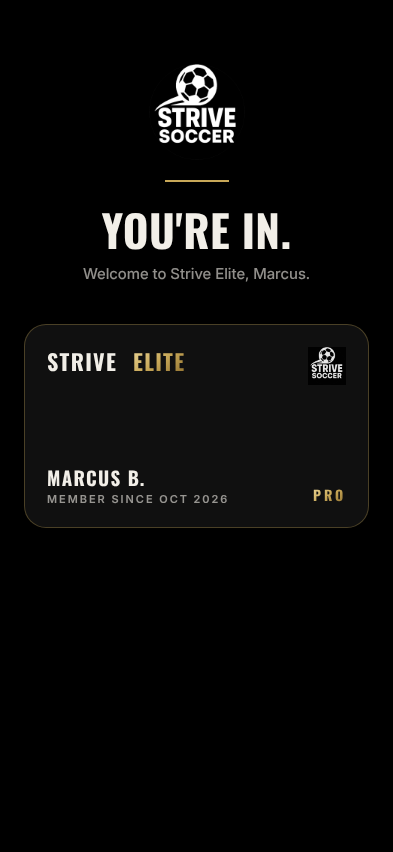
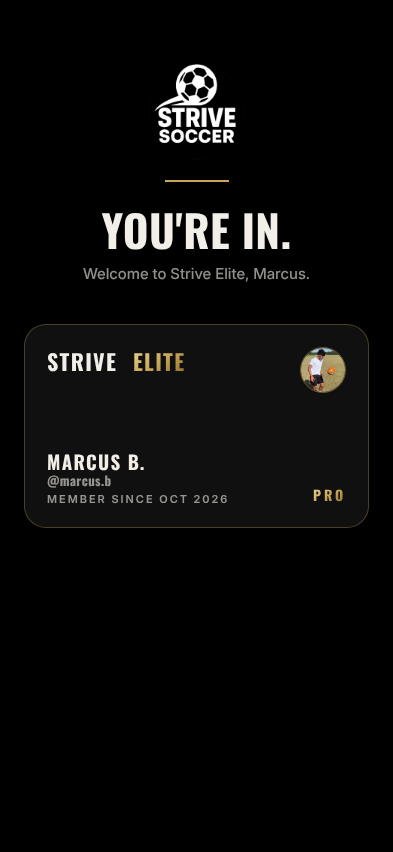
Simulator coverage for the free funnel, and pictures of every new screen
sim/shots.sh opens the join screens, the free quiz, the offer, the week's
set-up and the free app's tabs by launch argument; one tapped flow walks the
whole funnel from Join free to a post and the unlocked feed. The browser
pictures (layout only) are retaken for the door and You, which now carry the
profile photo, and added for each new screen. The device checklist gains the
four things only a phone shows here: the checkout sheet, the iPhone's own
sheets, a library photo that is not a JPEG, and the two tab groups.

Claude-Session: https://claude.ai/code/session_011JsCTTjCbUkHbTuWTKQSXJ

Changed region(s): [[0.1221, 0.5188, 0.3664, 0.5798], [0.7634, 0.3967, 0.8855, 0.4577]]

diff --git a/docs/app-store/native-device-checklist.md b/docs/app-store/native-device-checklist.md
@@ -26,6 +26,10 @@ how it is checked: a test that fails the build, or Coach Yinka's phone.
 | 12 | The status bar reads on every screen and the phone's own boxes are dark: the app is dark whatever the phone is set to | test; the simulator pictures |
 | 13 | The first screen is the right one: nothing of Home shows before a member who belongs elsewhere is sent there, and the launch screen never stays up more than a few seconds | test; the simulator's launch videos |
 | 14 | A screen that builds itself in ends up complete: watch it move, not only where it stopped | the simulator's launch videos (`film` in `sim/shots.sh`) |
+| 15 | A page opened in a sheet over the app that the app waits on (the card checkout from the offer): the sheet opens, Done closes it, and the app then asks the server what happened and moves on by itself, paid or not | test for the order of the calls; phone, with a real Stripe test card, for the rest |
+| 16 | The iPhone's own sheets opened from a post or a button: the action sheet (Report this post, Block, Delete my post), the confirm box, and the share sheet (Send my link) all come up dark, and Cancel leaves everything as it was | phone |
+| 17 | A photo from the library that is not a JPEG (the iPhone's own HEIC) is posted: the image tool turns it into a JPEG before it is sent, and the server takes it | phone; the simulator's flow picks a sample photo but the example build sends nothing |
+| 18 | Two tab groups (a member's and the free app's): the tab bar shown is the right one for the account, and a tab with the same name in both (Courses) opens the one in the group being used | test for who sees which tabs; the simulator pictures for the rest |
 
 ## What Coach Yinka checks on each new build
 
@@ -33,6 +37,16 @@ Sign in, the username and photo screen (camera and photos), Home, start a
 session through to the finish ring, Week, Courses (open a course of drills,
 tap a clip; open a course of pages and read down it), You, Settings. A screenshot or
 screen recording of anything off is the fastest fix.
+
+With a second email, the free side: Join free from the sign-in screen
+(only there while free sign-up is switched on at /coach/free), the quiz,
+the username and photo, the offer (the card shows the photo; "Not now,
+start free"), the week's target and days, then Friends: post a photo from
+the camera and one from the library, accept a friend request, give props,
+Report and Block on a friend's post, Send my link. Week, Courses (every
+course locked), You, Settings (Delete my account works for a free account).
+Then, once Stripe is switched on: Start Strive Pro from the offer with a
+test card, close the sheet, and the app should carry on to "You're in".
 
 ## Seeing the phone from here
 
